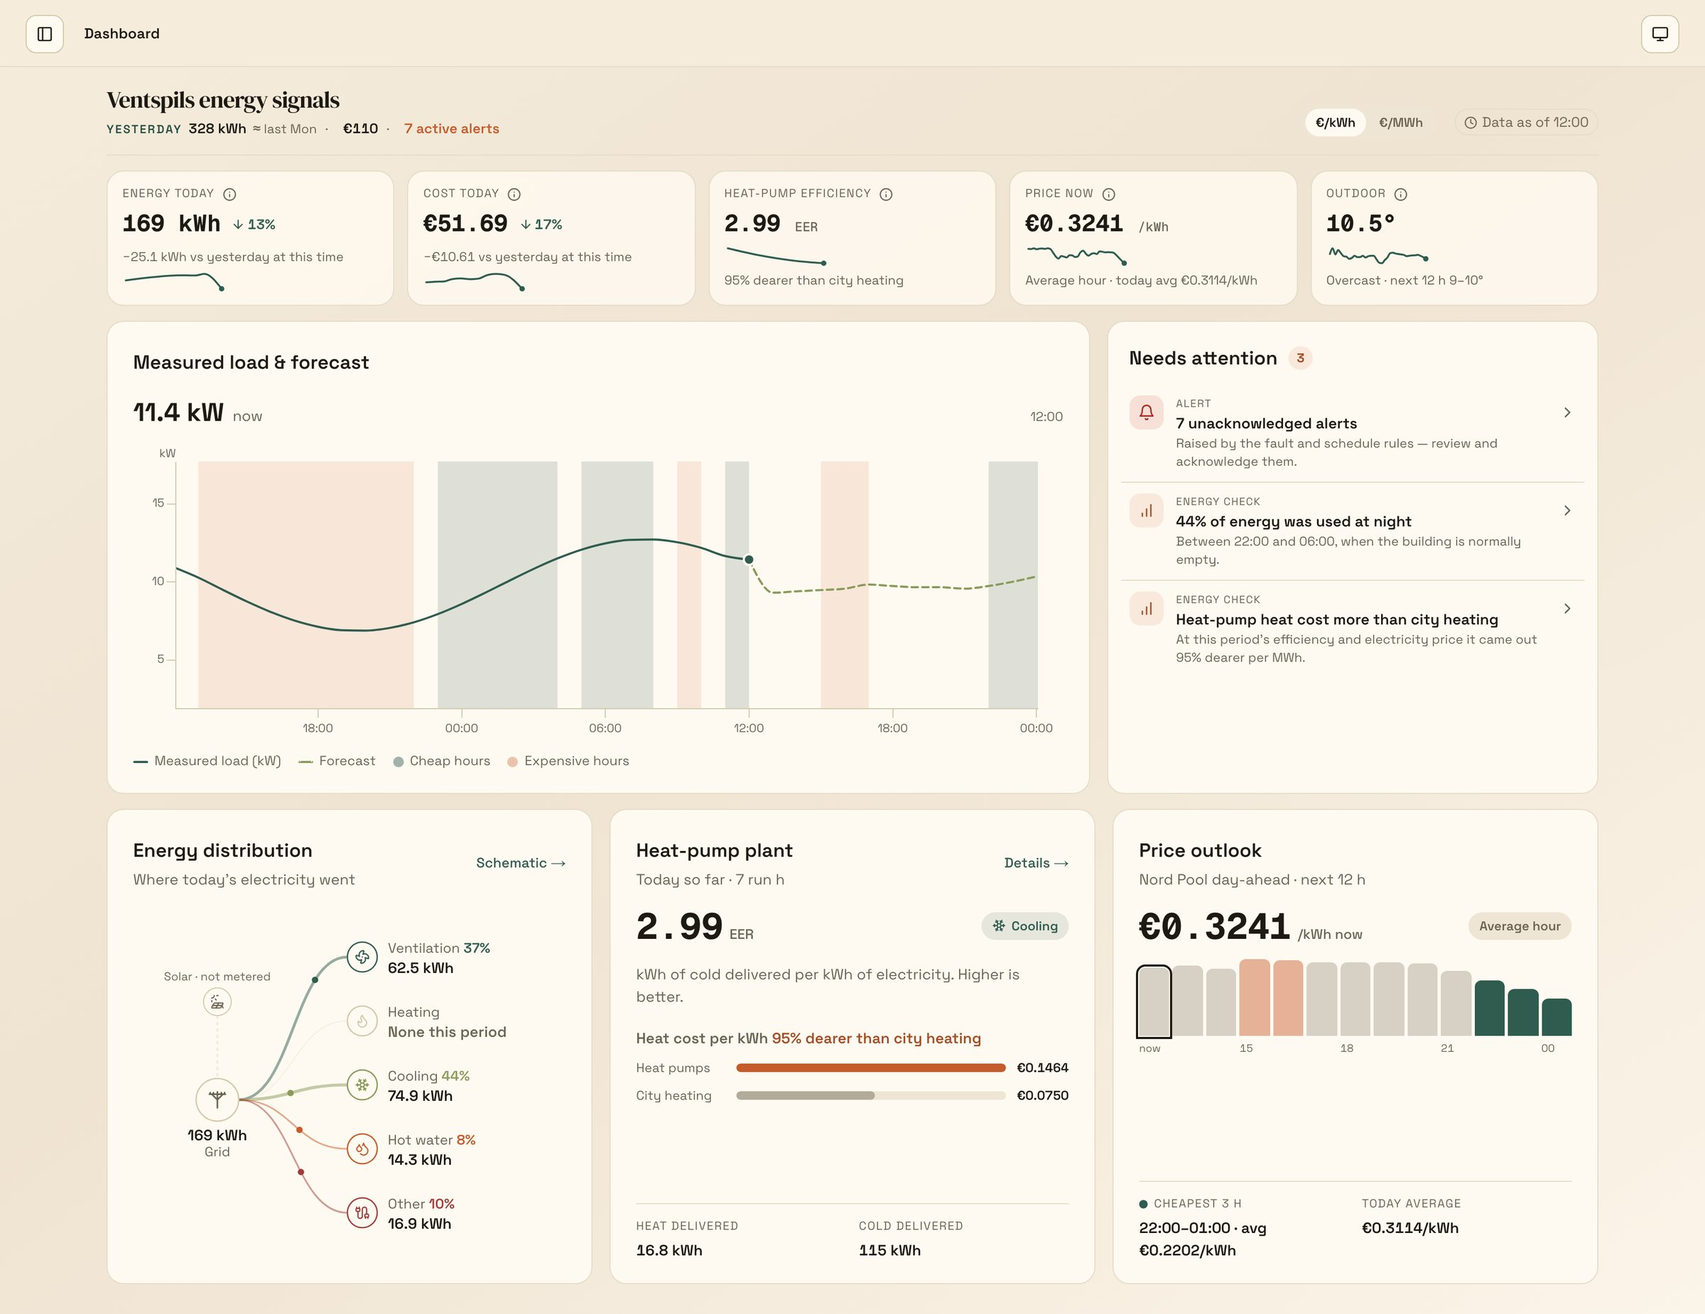
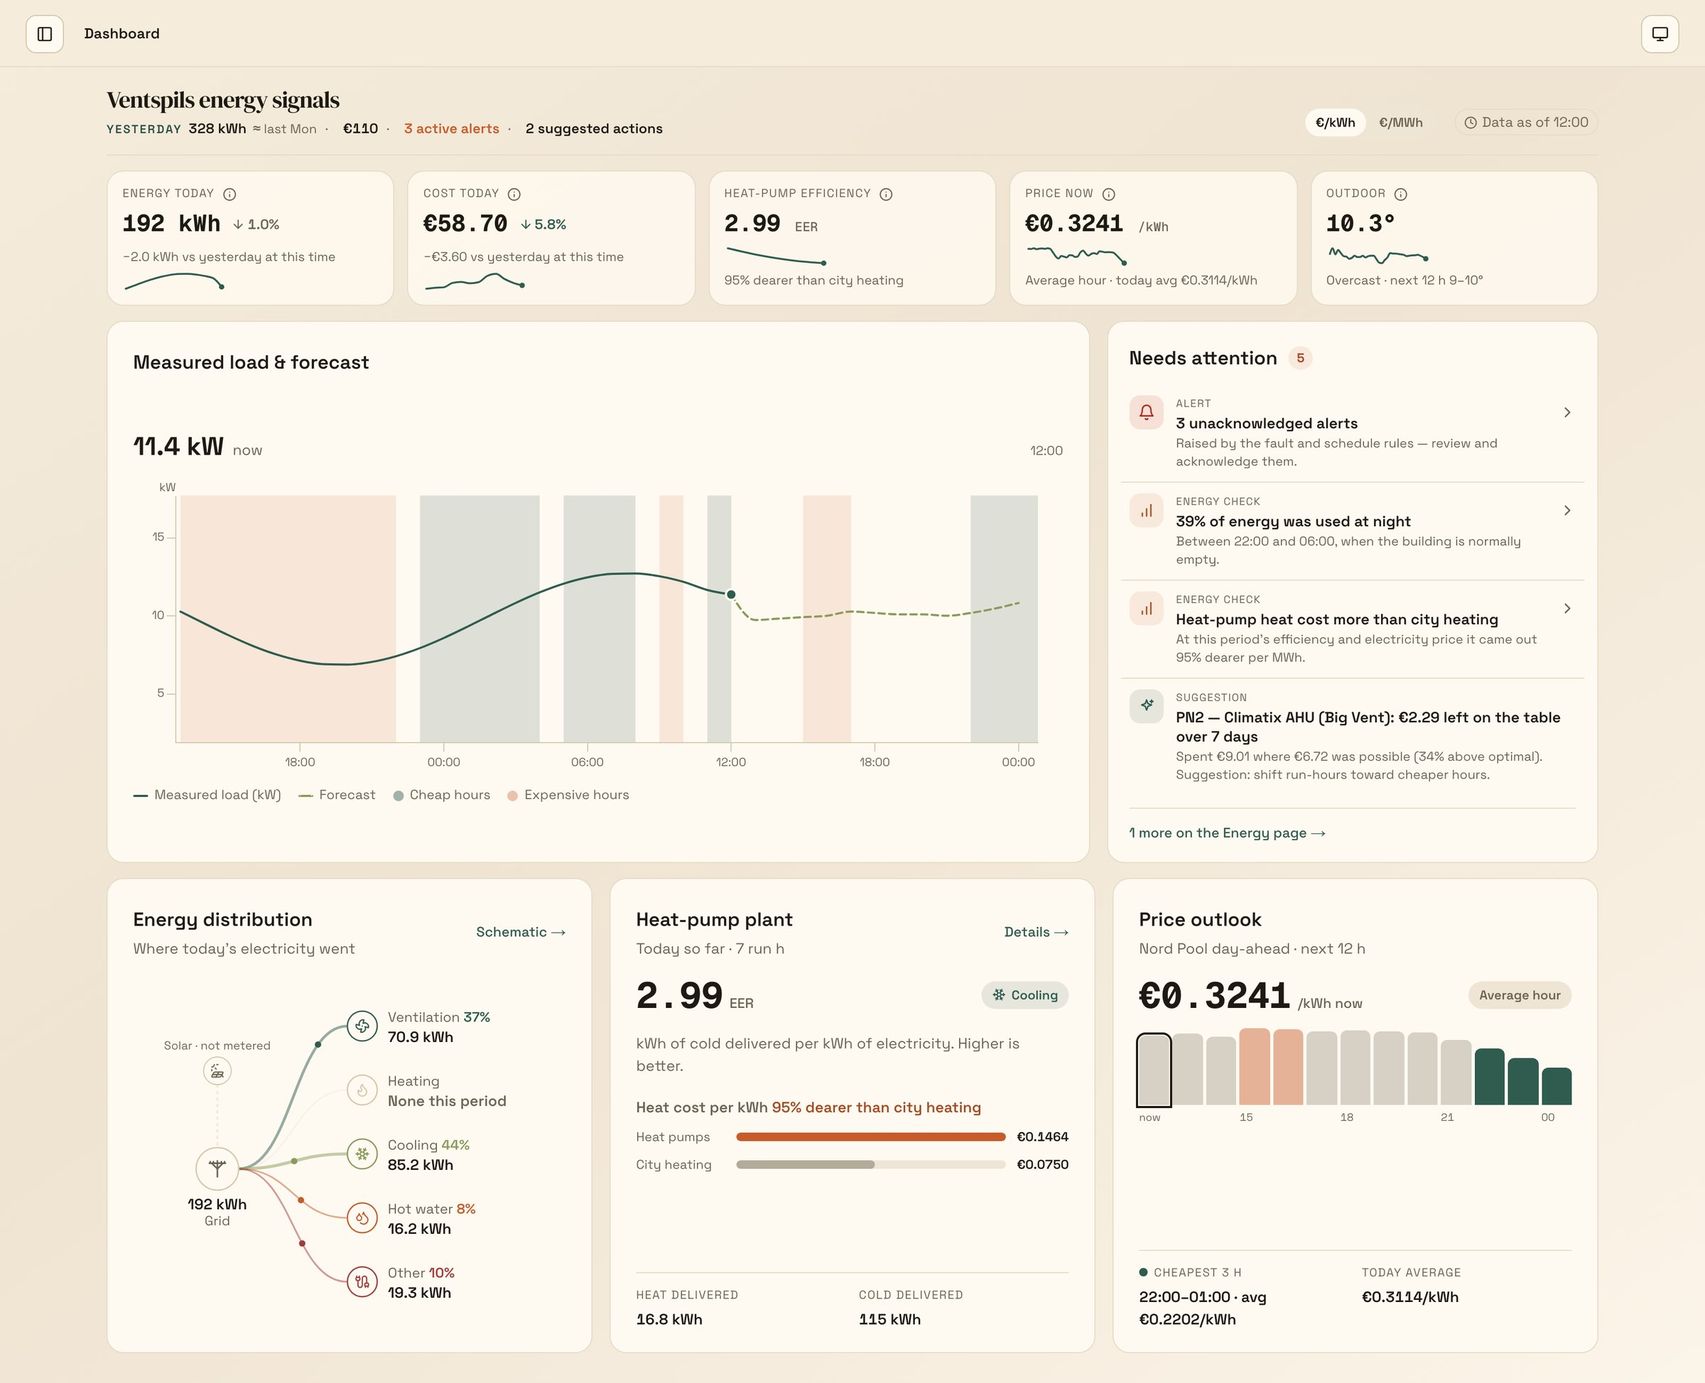
ipcei-2026-q3: deep-dive pass — cover every feature, AI insight and indicator
Adds a Kontrole stage and 22 stops: AI suggestions on the dashboard,
AI advisory alerts (spend timing EUR left on the table, heat-recovery
drift) with the detail panel, remote AHU control, room KPIs, history
and occupant feedback, daily rhythm heat-map, measured COP/EER, meter
cross-check, CO2 footprint, heat per pump, monthly Excel report, alert
inbox, control policies, roles/permissions and settings, plus an
indicators overview scene.

Corrects the hot-water automation status: running automatically in
production since 8 Sept, not merely ready.

diff --git a/ipcei-2026-q3/index.html b/ipcei-2026-q3/index.html
@@ -225,7 +225,12 @@
   }
   .status i { width: 8px; height: 8px; border-radius: 50%; background: #e39467; box-shadow: 0 0 10px #e39467; }
 
-  .journey { display: grid; grid-template-columns: repeat(7, 1fr); gap: 1vw; margin-top: 5vh; max-width: 1240px; }
+  .ind { display: grid; grid-template-columns: repeat(3, 1fr); gap: 1.4vw; margin-top: 4.5vh; max-width: 1240px; }
+  .indc { background: rgba(255,250,242,.06); border: 1px solid var(--line); border-radius: 20px; padding: 2.8vh 1.6vw; }
+  .indc b { display: block; font-size: clamp(16px, 2.4vh, 24px); font-weight: 800; color: var(--mint); margin-bottom: 1vh; }
+  .indc p { font-size: clamp(13px, 1.8vh, 18px); color: var(--cream-dim); line-height: 1.6; }
+
+  .journey { display: grid; grid-template-columns: repeat(8, 1fr); gap: 1vw; margin-top: 5vh; max-width: 1240px; }
   .journey div { border-top: 2px solid var(--line); padding-top: 1.4vh; }
   .journey b { display: block; font-size: 11px; color: var(--mint); letter-spacing: .1em; }
   .journey span { font-size: clamp(14px, 2vh, 20px); font-weight: 600; }
@@ -257,7 +262,7 @@
   @media (max-width: 760px) {
     .stage span, .brand span { display: none; }
     .rail { gap: 12px; padding: 0 14px; }
-    .grid4, .journey, .opt, .loop, .flow { grid-template-columns: 1fr; }
+    .grid4, .journey, .opt, .loop, .flow, .ind { grid-template-columns: 1fr; }
     .flow svg.wires, .step3::after { display: none; }
     .brain { margin: 0 auto; }
     .scene { padding: 3vh 16px; overflow: auto; }
@@ -329,6 +334,20 @@
     <div class="num" id="chNum"></div>
   </section>
 
+  <!-- Every indicator the platform tracks -->
+  <section class="scene" id="scene-indicators">
+    <div class="kick">Ko platforma mēra · nepārtraukti, no reālām iekārtām</div>
+    <h2>Simtiem rādītāju, <em>sešas</em> grupas</h2>
+    <div class="ind">
+      <div class="indc"><b>Enerģija</b><p>kWh · € pēc stundas cenas · CO₂ · bāzes slodze · nakts patēriņš · dārgo stundu daļa · pīķa stunda</p></div>
+      <div class="indc"><b>Efektivitāte</b><p>COP apkurei · COP karstajam ūdenim · EER dzesēšanai · siltuma atgūšana η · siltuma cena pret pilsētas apkuri</p></div>
+      <div class="indc"><b>Komforts</b><p>temperatūra · mitrums · CO₂ · komforta indekss 0–100 · cilvēku vērtējums</p></div>
+      <div class="indc"><b>Iekārtas</b><p>stāvoklis · darbības stundas · režīms un pakāpe · kļūdu kodi · plūsma · padeves un atgaitas temperatūra</p></div>
+      <div class="indc"><b>Ārējie signāli</b><p>Nord Pool cena · temperatūra · saule · mākoņi · rasas punkts · vējš — 48 h prognoze</p></div>
+      <div class="indc"><b>Datu kvalitāte</b><p>skaitītāju salīdzinājums · novecojuši dati · baterija un uzlāde · neticamu rādījumu atsijāšana</p></div>
+    </div>
+  </section>
+
   <!-- AI: signals in, decisions out -->
   <section class="scene" id="scene-signals">
     <div class="kick">MI ietaupa · ko tas ņem vērā</div>
@@ -382,10 +401,10 @@
     <h2>Plāno. Vada. <em>Mēra.</em></h2>
     <div class="loop">
       <div class="step3"><div class="k">01</div><h4>Plāno</h4><p>Katru dienu no rītdienas cenām aprēķina, kad sildīt ūdeni un kurš siltuma avots būs lētākais.</p><div class="tagline"><span>Nord Pool</span><span>laika prognoze</span><span>COP</span></div></div>
-      <div class="step3"><div class="k">02</div><h4>Vada</h4><p>Komanda aiziet uz iekārtu, iekārta apstiprina izpildi, katrs solis tiek ierakstīts auditā.</p><div class="tagline"><span>pārbaudīts uz reālas iekārtas</span><span>audita ieraksts</span></div></div>
+      <div class="step3"><div class="k">02</div><h4>Vada</h4><p>Komanda aiziet uz iekārtu, iekārta apstiprina izpildi, katrs solis tiek ierakstīts auditā.</p><div class="tagline"><span>darbojas automātiski</span><span>audita ieraksts</span></div></div>
       <div class="step3"><div class="k">03</div><h4>Mēra</h4><p>Ietaupījumu rēķina katru dienu — patērētās kWh pēc reālās stundas cenas pret dienas vidējo cenu.</p><div class="tagline"><span>reāli eiro</span><span>katru dienu</span></div></div>
     </div>
-    <div class="status"><i></i>Automātika gatava · pētījuma posmā to ieslēdz cilvēks</div>
+    <div class="status"><i></i>Karstā ūdens automātika strādā kopš 8. septembra · cilvēks to var izslēgt jebkurā brīdī</div>
   </section>
 
   <!-- AI models -->
@@ -442,20 +461,29 @@
    from the live DOM when the screens were captured.
    ───────────────────────────────────────────────────────────── */
 const SCREENS = {
-  f3dHome:    { src: 'app/f3d-home.jpg',        h: 1000, url: '3D ēka' },
-  f3dZoom:    { src: 'app/f3d-zoom.jpg',        h: 1000, url: '3D ēka' },
-  f3dHp:      { src: 'app/f3d-hp.jpg',          h: 1000, url: '3D ēka / Siltumsūknis' },
-  dashboard:  { src: 'app/dashboard.jpg',       h: 1233, url: 'Pārskats' },
-  schematic:  { src: 'app/schematic.jpg',       h: 1000, url: 'Shēma' },
-  schematicH: { src: 'app/schematic-hover.jpg', h: 1000, url: 'Shēma' },
-  device:     { src: 'app/device.jpg',          h: 1500, url: 'Iekārtas / Siltumsūknis' },
-  floor:      { src: 'app/floor.jpg',           h: 1300, url: 'Stāvi / VATP 1A / 2. stāvs' },
-  energy:     { src: 'app/energy.jpg',          h: 4592, url: 'Enerģija' },
-  breakdown:  { src: 'app/breakdown.jpg',       h: 2500, url: 'Enerģija / Sadalījums' },
-  display:    { src: 'app/display.jpg',         h: 1000, url: 'Displejs' },
+  f3dHome:     { src: 'app/f3d-home.jpg',        h: 1000, url: '3D ēka' },
+  f3dZoom:     { src: 'app/f3d-zoom.jpg',        h: 1000, url: '3D ēka' },
+  f3dHp:       { src: 'app/f3d-hp.jpg',          h: 1000, url: '3D ēka / Siltumsūknis' },
+  dashboard:   { src: 'app/dashboard.jpg',       h: 1298, url: 'Pārskats' },
+  schematic:   { src: 'app/schematic.jpg',       h: 1000, url: 'Shēma' },
+  schematicH:  { src: 'app/schematic-hover.jpg', h: 1000, url: 'Shēma' },
+  device:      { src: 'app/device.jpg',          h: 1500, url: 'Iekārtas / Siltumsūknis' },
+  ahuControl:  { src: 'app/ahu-control.jpg',     h: 1026, url: 'Iekārtas / PN1 ventilācija / Vadība' },
+  floor:       { src: 'app/floor.jpg',           h: 1300, url: 'Stāvi / VATP 1A / 2. stāvs' },
+  room:        { src: 'app/room.jpg',            h: 1000, url: 'Telpas / 14. Nākotnes klase' },
+  feedback:    { src: 'app/feedback.jpg',        h: 1000, url: 'Telpas / 14. Nākotnes klase / Atsauksmes' },
+  energy:      { src: 'app/energy.jpg',          h: 4592, url: 'Enerģija' },
+  energyMenu:  { src: 'app/energy-menu.jpg',     h: 1000, url: 'Enerģija / Eksports' },
+  breakdown:   { src: 'app/breakdown.jpg',       h: 3600, url: 'Enerģija / Sadalījums' },
+  alerts:      { src: 'app/alerts.jpg',          h: 1000, url: 'Brīdinājumi' },
+  alertDetail: { src: 'app/alert-detail.jpg',    h: 1000, url: 'Brīdinājumi' },
+  adminPerm:   { src: 'app/admin-perm.jpg',      h: 1000, url: 'Administrēšana / Tiesības' },
+  adminPolicy: { src: 'app/admin-policy.jpg',    h: 1000, url: 'Administrēšana / Vadības politikas' },
+  settings:    { src: 'app/settings.jpg',        h: 1034, url: 'Administrēšana / Iestatījumi' },
+  display:     { src: 'app/display.jpg',         h: 1000, url: 'Displejs' },
 };
 
-const STAGES = ['Ēka', 'Pārskats', 'Iekārtas', 'Komforts', 'Enerģija', 'MI ietaupa', 'Tālāk'];
+const STAGES = ['Ēka', 'Pārskats', 'Iekārtas', 'Komforts', 'Enerģija', 'MI ietaupa', 'Kontrole', 'Tālāk'];
 
 // type: scene | chapter | cam.   stage: index into STAGES (-1 = before the journey).
 // rect: [x, y, w, h] in page px.  spot: false = camera move without a spotlight.
@@ -470,38 +498,61 @@ const STEPS = [
   { type: 'cam', stage: 0, screen: 'f3dHp', rect: [1222, 74, 312, 432], chip: 'Luxtronik', title: 'Klikšķis — un dati', text: 'Izvēlies iekārtu modelī un redzi tās stāvokli tieši tagad.' },
 
   { type: 'chapter', stage: 1, title: 'Viss <em>vienā</em> skatā', sub: 'Galvenais panelis — ko ēka dara un kas jāpamana.' },
-  { type: 'cam', stage: 1, screen: 'dashboard', rect: [80, 60, 1440, 1160], spot: false, title: 'Galvenais panelis', text: 'Viss svarīgākais par ēku vienā ekrānā — atjaunojas pats.' },
-  { type: 'cam', stage: 1, screen: 'dashboard', rect: [100, 160, 1400, 128], title: 'Šodiena skaitļos', text: 'Enerģija, izmaksas, siltumsūkņu efektivitāte, elektrības cena un laiks.' },
-  { type: 'cam', stage: 1, screen: 'dashboard', rect: [100, 301, 923, 444], chip: 'MI', title: 'Slodze un prognoze', text: 'Izmērītā jauda un nākamo stundu prognoze uz lēto un dārgo stundu fona.' },
-  { type: 'cam', stage: 1, screen: 'dashboard', rect: [1039, 301, 461, 444], title: 'Kam pievērst uzmanību', text: 'Platforma pati pārbauda datus un izceļ, kas jāapskata.' },
+  { type: 'cam', stage: 1, screen: 'dashboard', rect: [80, 60, 1440, 1220], spot: false, title: 'Galvenais panelis', text: 'Viss svarīgākais par ēku vienā ekrānā — atjaunojas pats.' },
+  { type: 'cam', stage: 1, screen: 'dashboard', rect: [100, 160, 1400, 128], title: 'Šodiena skaitļos', text: 'Enerģija, izmaksas, siltumsūkņu efektivitāte, elektrības cena un laiks — ar salīdzinājumu pret vakardienu.' },
+  { type: 'cam', stage: 1, screen: 'dashboard', rect: [100, 301, 923, 508], chip: 'MI', title: 'Slodze un prognoze', text: 'Izmērītā jauda un nākamo stundu prognoze uz lēto un dārgo stundu fona.' },
+  { type: 'cam', stage: 1, screen: 'dashboard', rect: [1039, 301, 461, 508], chip: 'MI', title: 'Kam pievērst uzmanību', text: 'Brīdinājumi, automātiskās enerģijas pārbaudes un MI ieteikumi — svarīgākais augšā.' },
+  { type: 'cam', stage: 1, screen: 'dashboard', rect: [100, 824, 456, 446], title: 'Kur šodien aiziet elektrība', text: 'Ventilācija, dzesēšana, apkure, karstais ūdens — daļa no kopējā patēriņa.' },
 
-  { type: 'chapter', stage: 2, title: 'Reālas <em>iekārtas</em>', sub: 'Ventilācija, siltumsūkņi un vārsti — pieslēgti platformai.' },
+  { type: 'chapter', stage: 2, title: 'Reālas <em>iekārtas</em>', sub: 'Ventilācija, siltumsūkņi un vārsti — pieslēgti, uzraudzīti un vadāmi.' },
   { type: 'cam', stage: 2, screen: 'schematic', rect: [273, 120, 1050, 815], spot: false, title: 'Siltummezgls dzīvajā', text: 'Visa sistēma vienā interaktīvā shēmā. Krāsas rāda, kas silda un kas dzesē.' },
   { type: 'cam', stage: 2, screen: 'schematic', rect: [405, 128, 350, 228], chip: 'Modbus · BACnet', title: 'Ventilācija', text: 'Divas Siemens ventilācijas iekārtas un to enerģijas vārsti.' },
   { type: 'cam', stage: 2, screen: 'schematicH', rect: [630, 505, 402, 268], chip: 'Luxtronik', title: 'Siltumsūkņi', text: 'Temperatūras, jauda un efektivitāte — tieši no iekārtas.' },
-  { type: 'cam', stage: 2, screen: 'schematic', rect: [272, 628, 120, 150], title: 'Ģeotermālie urbumi', text: 'Zemes siltums — siltumsūkņu avots un dzesēšanas izvads.' },
+  { type: 'cam', stage: 2, screen: 'schematic', rect: [272, 628, 120, 150], chip: 'M-Bus', title: 'Ģeotermālie urbumi', text: 'Zemes siltums — siltumsūkņu avots un dzesēšanas izvads, ar savu siltuma skaitītāju.' },
+  { type: 'cam', stage: 2, screen: 'schematic', rect: [1136, 130, 190, 295], title: 'Enerģijas sadalījums', text: 'Pēdējo 24 h elektrība pa sistēmām — tieši shēmā.' },
   { type: 'cam', stage: 2, screen: 'device', rect: [250, 240, 1100, 700], title: 'Katras iekārtas dati', text: 'Siltumsūknis sniedz 34 rādījumus, katram — vēsture un statuss.' },
+  { type: 'cam', stage: 2, screen: 'ahuControl', rect: [240, 185, 1065, 510], chip: 'Vadība', title: 'Attālināta vadība', text: 'Ventilatoru režīms, temperatūra, CO₂ mērķis, gaisa plūsma un avārijas apturēšana — katra komanda tiek apstiprināta un auditēta.' },
+  { type: 'scene', id: 'indicators', stage: 2 },
 
   { type: 'chapter', stage: 3, title: 'Telpu <em>komforts</em>', sub: 'Kā jūtas cilvēki katrā telpā.' },
   { type: 'cam', stage: 3, screen: 'floor', rect: [248, 164, 1100, 1064], title: 'Stāva plāns', text: 'Katra telpa iekrāsota pēc komforta — CO₂, temperatūra un mitrums.' },
+  { type: 'cam', stage: 3, screen: 'room', rect: [201, 303, 1198, 123], title: 'Telpas rādītāji', text: 'Temperatūra, mitrums, CO₂ un viens komforta indekss 0–100.' },
+  { type: 'cam', stage: 3, screen: 'room', rect: [1019, 444, 380, 343], title: 'Vēsture', text: 'Katra rādītāja līkne — no stundas līdz trim mēnešiem.' },
+  { type: 'cam', stage: 3, screen: 'feedback', rect: [540, 178, 520, 314], title: 'Cilvēku balss', text: 'Darbinieki paši novērtē telpu — no “par aukstu” līdz “par karstu”.' },
 
-  { type: 'chapter', stage: 4, title: 'Kur aiziet <em>enerģija</em>', sub: 'Katra kilovatstunda — un cik tā maksāja.' },
+  { type: 'chapter', stage: 4, title: 'Kur aiziet <em>enerģija</em>', sub: 'Katra kilovatstunda — un cik tā maksāja un cik CO₂ radīja.' },
   { type: 'cam', stage: 4, screen: 'energy', rect: [24, 379, 1552, 172], title: 'Saražotais siltums', text: 'Ko siltumsūkņi saražoja: apkure, karstais ūdens un dzesēšana.' },
   { type: 'cam', stage: 4, screen: 'energy', rect: [24, 1648, 925, 650], title: 'Enerģijas plūsma', text: 'No ēkas līdz sistēmai un līdz katrai iekārtai.' },
   { type: 'cam', stage: 4, screen: 'energy', rect: [24, 1211, 1552, 421], title: 'Izmaksas stundu pa stundai', text: 'Patēriņš, reizināts ar Nord Pool biržas cenu katrā stundā.' },
+  { type: 'cam', stage: 4, screen: 'energy', rect: [24, 2381, 1552, 395], title: 'Ēkas dienas ritms', text: 'Kurās stundās ēka patērē visvairāk — siltuma karte un tipiska diena.' },
+  { type: 'cam', stage: 4, screen: 'energy', rect: [24, 3315, 611, 446], title: 'Efektivitāte', text: 'COP apkurei un karstajam ūdenim, EER dzesēšanai — mērīti, nevis pieņemti.' },
+  { type: 'cam', stage: 4, screen: 'energy', rect: [24, 3777, 1552, 326], title: 'Vai skaitītāji sakrīt?', text: 'Platforma salīdzina dažādus mērītājus tajās pašās stundās un parāda atšķirību.' },
+  { type: 'cam', stage: 4, screen: 'energy', rect: [24, 4187, 1552, 250], title: 'CO₂ pēdas nospiedums', text: 'Emisijas no patērētās elektrības un mūsu siltuma oglekļa intensitāte.' },
   { type: 'cam', stage: 4, screen: 'breakdown', rect: [24, 1206, 1552, 783], title: 'Katra iekārta atsevišķi', text: 'Elektrības patēriņš un izmaksas pa iekārtām.' },
+  { type: 'cam', stage: 4, screen: 'breakdown', rect: [24, 2453, 1552, 645], title: 'Siltums no katra siltumsūkņa', text: 'Saražotais siltums dienu pa dienai un katra sūkņa efektivitāte.' },
+  { type: 'cam', stage: 4, screen: 'energyMenu', rect: [1256, 127, 320, 542], title: 'Ikmēneša atskaite', text: 'Viens klikšķis — gatava Excel enerģijas atskaite par jebkuru mēnesi.' },
 
   { type: 'chapter', stage: 5, title: 'MI, kas <em>ietaupa</em>', sub: 'Apkure un karstais ūdens — pēc elektrības cenas un citiem rādītājiem.' },
   { type: 'scene', id: 'signals', stage: 5 },
   { type: 'scene', id: 'optimizer', stage: 5 },
-  { type: 'cam', stage: 5, screen: 'dashboard', rect: [1044, 759, 456, 446], chip: 'MI', title: 'Lētākās stundas lietotnē', text: 'Operators redz rītdienas cenas un stundas, kurās MI plāno sildīšanu.' },
-  { type: 'cam', stage: 5, screen: 'energy', rect: [24, 3315, 1552, 446], chip: 'MI', title: 'Siltumsūknis vai pilsētas siltums', text: 'Katru stundu salīdzina mūsu siltuma cenu ar pilsētas apkuri — un saka, kas izdevīgāk.' },
+  { type: 'cam', stage: 5, screen: 'dashboard', rect: [1044, 824, 456, 446], chip: 'MI', title: 'Lētākās stundas lietotnē', text: 'Rītdienas cenas un lētākās stundas — pēc tām kopš 8. septembra automātiski strādā karstā ūdens sūknis.' },
+  { type: 'cam', stage: 5, screen: 'energy', rect: [651, 3315, 925, 446], chip: 'MI', title: 'Siltumsūknis vai pilsētas siltums', text: 'Katru stundu salīdzina mūsu siltuma cenu ar pilsētas apkuri — un saka, kas izdevīgāk.' },
+  { type: 'cam', stage: 5, screen: 'alerts', rect: [200, 641, 1200, 124], chip: 'MI', title: 'Nauda, kas paliek galdā', text: 'MI pamana, ka ventilācija strādāja dārgās stundās: €2.29 no €9.01 bija ietaupāmi — iesaka pārcelt darba laiku.' },
+  { type: 'cam', stage: 5, screen: 'alerts', rect: [200, 399, 1200, 124], chip: 'MI', title: 'Iekārta sāk strādāt sliktāk', text: 'Siltuma atgūšanas efektivitāte nokritās zem normas — MI iesaka pārbaudīt rotoru un siksnu.' },
+  { type: 'cam', stage: 5, screen: 'alertDetail', rect: [890, 315, 465, 650], chip: 'MI', title: 'Ko tas nozīmē un ko darīt', text: 'Katram ieteikumam — skaidrojums, nākamie soļi un saite uz iekārtu, shēmu un 3D modeli.' },
+  { type: 'cam', stage: 5, screen: 'energy', rect: [24, 565, 925, 630], chip: 'MI', title: 'Automātiskas atziņas', text: 'Platforma pati pamana izmaiņas un paskaidro tās vienkāršā valodā.' },
   { type: 'scene', id: 'loop', stage: 5 },
   { type: 'scene', id: 'models', stage: 5 },
 
-  { type: 'cam', stage: 6, screen: 'display', rect: [0, 0, 1600, 1000], spot: false, title: 'Vestibila ekrāns', text: 'Ēkas stāvoklis visiem apmeklētājiem — komforts, enerģija un cena.' },
-  { type: 'scene', id: 'next', stage: 6 },
-  { type: 'scene', id: 'outro', stage: 6 },
+  { type: 'chapter', stage: 6, title: 'Droši un <em>kontrolēti</em>', sub: 'Brīdinājumi, lomas, drošības robežas un audits.' },
+  { type: 'cam', stage: 6, screen: 'alerts', rect: [180, 80, 1240, 720], spot: false, title: 'Brīdinājumu iesūtne', text: 'Kļūmes, novecojuši dati, baterijas un MI ieteikumi — grupēti pa telpām, ar statusu.' },
+  { type: 'cam', stage: 6, screen: 'adminPolicy', rect: [240, 200, 1060, 780], chip: 'Drošība', title: 'Drošības robežas', text: 'Katrai komandai — atļautās vērtības un vai vajadzīgs apstiprinājums.' },
+  { type: 'cam', stage: 6, screen: 'adminPerm', rect: [242, 240, 1060, 760], title: 'Lomas un tiesības', text: 'Septiņas lomas — katra redz un dara tikai to, kas tai pienākas.' },
+  { type: 'cam', stage: 6, screen: 'settings', rect: [24, 81, 1552, 925], spot: false, title: 'Iestatījumi', text: 'E-pasta brīdinājumi, sensoru datu kvalitāte un vestibila ekrāna paneļi.' },
+
+  { type: 'cam', stage: 7, screen: 'display', rect: [0, 0, 1600, 1000], spot: false, title: 'Vestibila ekrāns', text: 'Ēkas stāvoklis visiem apmeklētājiem — komforts, enerģija un cena.' },
+  { type: 'scene', id: 'next', stage: 7 },
+  { type: 'scene', id: 'outro', stage: 7 },
 ];
 
 /* Real Latvian Nord Pool day-ahead prices (EUR/MWh, local hours) — source: Elering NPS API. */
